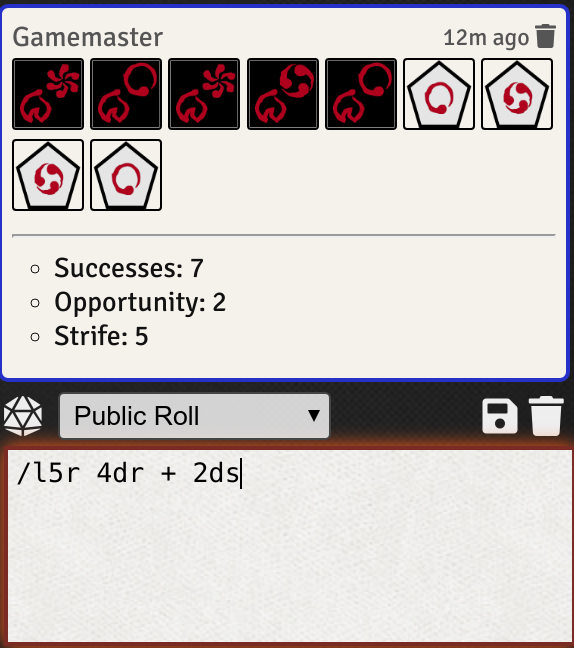
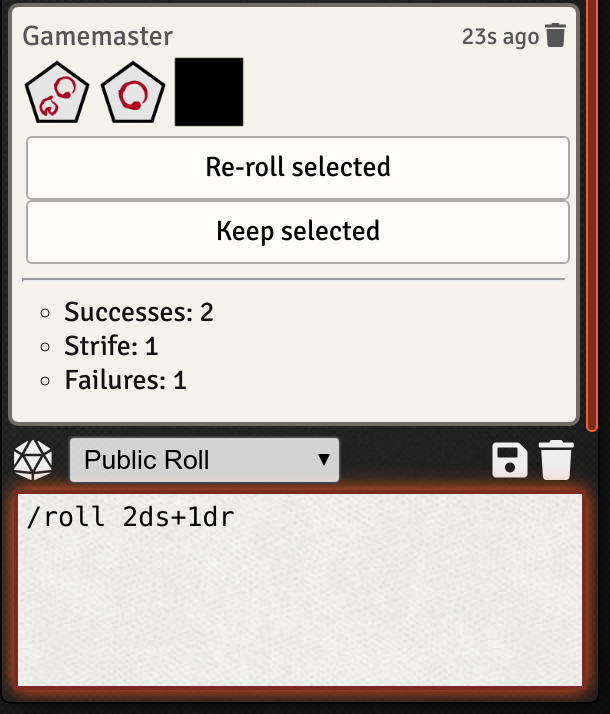
update readme to add re-roll and keep

Changed region(s): [[0.0, 0.0, 1.0, 1.0]]

diff --git a/README.md b/README.md
@@ -7,3 +7,5 @@ A Legend of the 5 Rings dice roller using the images from [SkyJedi's Discord Rol
 Roll Legend of the 5 Rings 5th edition dice in the chat window (s for skill, r for ring): /l5r 3dr+2ds or /l5r 3dr or /l5r 2ds. Auto rolls exploding successes.
 
 ![roller usage](docs/roller.png)
+
+You can choose to either keep or re-roll certain dice. To do that, click on the dice to select them and hit either button. Re-rolled dice are removed from the roll and new rolls are attached at the end.
